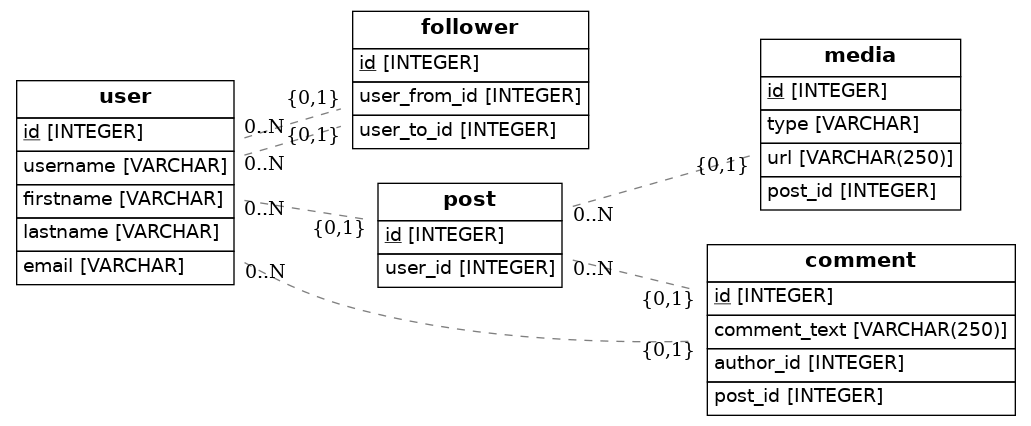
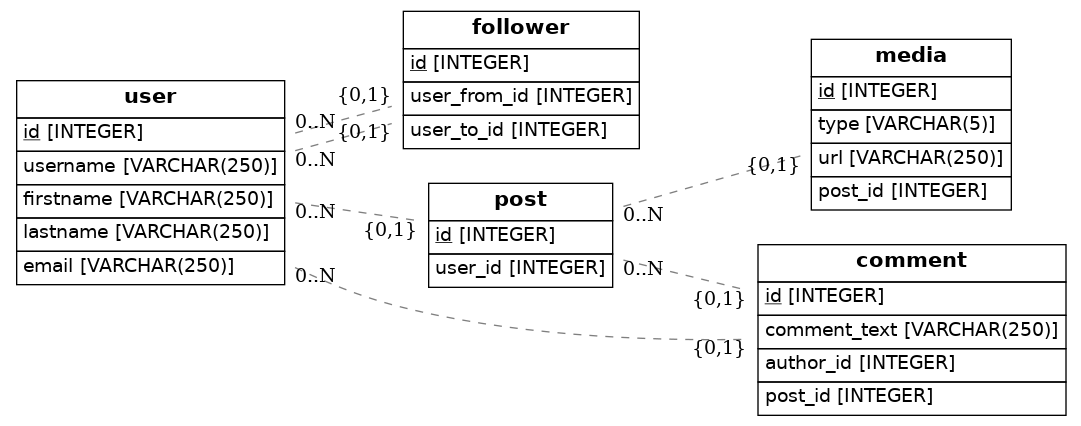
fixed relationships (backref added)

diff --git a/src/models.py b/src/models.py
@@ -13,12 +13,16 @@ class User(Base):
     __tablename__ = 'user'
 
     id = Column(Integer, primary_key=True)
-    username = Column(String)
-    firstname = Column(String)
-    lastname = Column(String)
-    email = Column(String)
+    username = Column(String(250))
+    firstname = Column(String(250))
+    lastname = Column(String(250))
+    email = Column(String(250), unique = True)
+    follower = relationship('Follower', backref='user')
+    post = relationship('Post', backref='user')
+    comment = relationship('Comment', backref='user')
 
 
+  
 class Follower(Base):
     __tablename__ = 'follower'
 
@@ -34,12 +38,15 @@ class Post(Base):
     id = Column(Integer, primary_key=True)
     user_id = Column(Integer, ForeignKey('user.id'))
     user = relationship('User')
+    media = relationship('Media', backref='post')
+    comment = relationship('Comment', backref='post')
 
 
 class TypeEnums(enum.Enum):
     video = 'video'
     photo = 'photo'
     etc = 'etc'
+
 
 class Media(Base):
     __tablename__ = 'media'
